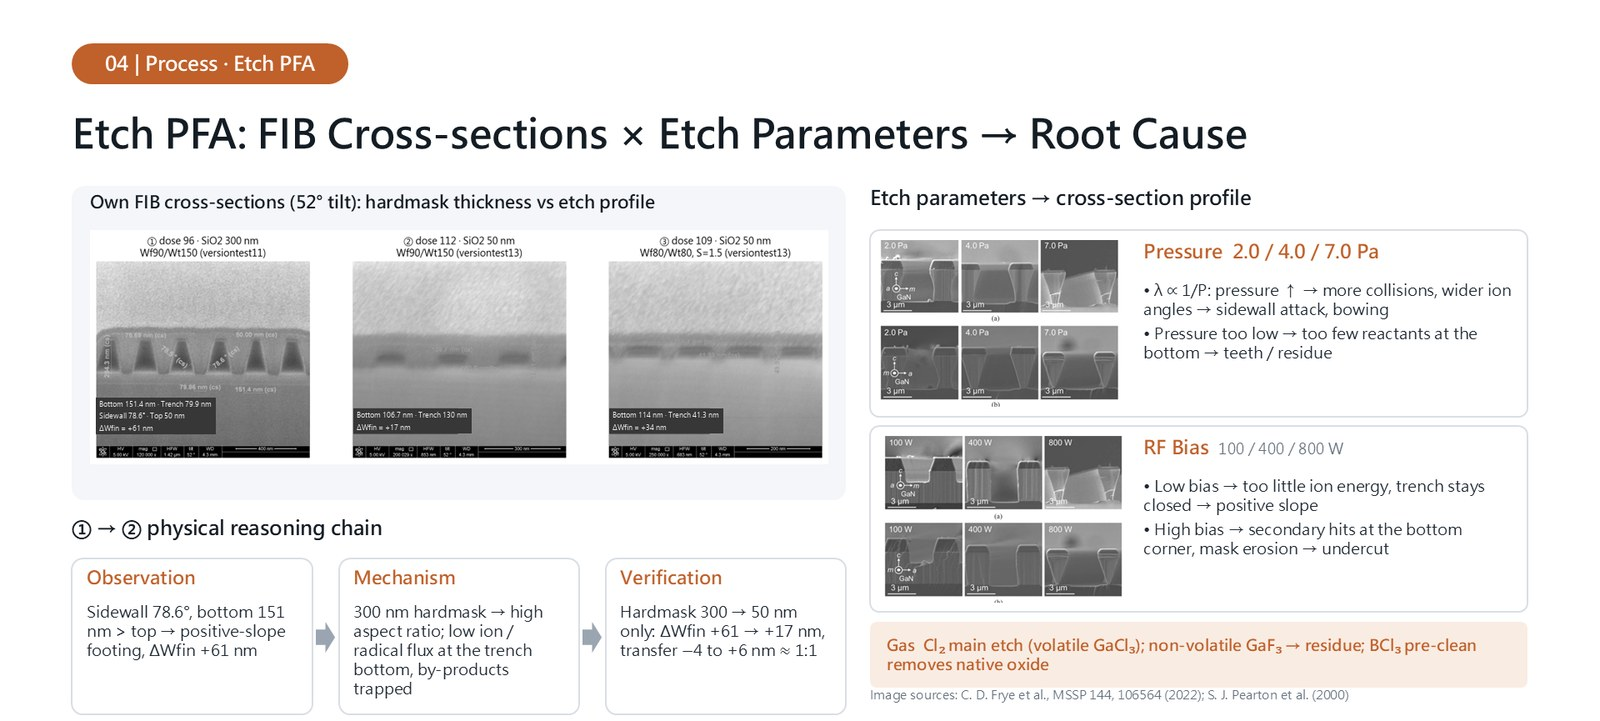
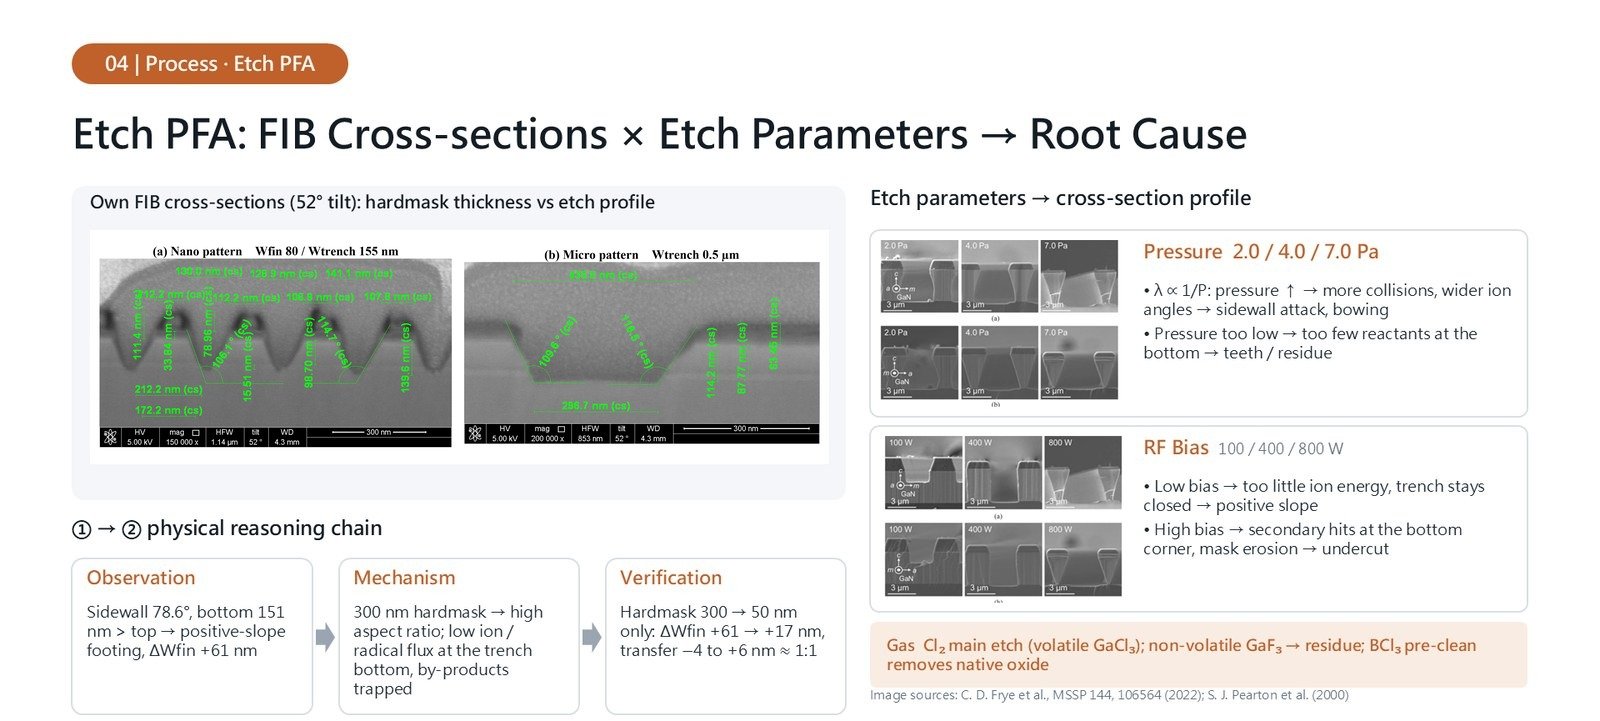
Update the etch FIB figure and the IWN poster
Swap the left panel of the Etch PFA slide for the Recipe #20 FIB
cross-sections (nano vs micro patterns) with English titles, and
replace the IWN 2026 poster with the final version.

Changed region(s): [[0.0625, 0.3051, 0.5312, 0.6408]]

diff --git a/index.html b/index.html
@@ -252,8 +252,8 @@
           </article>
 
           <article class="deck-step" data-topic="etch" data-highlight-id="deck-etch">
-            <a class="deck-slide" href="assets/slides/deck/gan-etch-pfa.jpg?v=en1" target="_blank" rel="noopener">
-              <img src="assets/slides/deck/gan-etch-pfa.jpg?v=en1" width="1600" height="721" alt="Etch PFA: FIB cross-sections and etch parameters trace morphology back to root cause" loading="lazy" decoding="async" />
+            <a class="deck-slide" href="assets/slides/deck/gan-etch-pfa.jpg?v=en2" target="_blank" rel="noopener">
+              <img src="assets/slides/deck/gan-etch-pfa.jpg?v=en2" width="1600" height="721" alt="Etch PFA: FIB cross-sections and etch parameters trace morphology back to root cause" loading="lazy" decoding="async" />
             </a>
             <div class="deck-copy">
               <p class="tag">Process · Etch PFA</p>
@@ -465,8 +465,8 @@
 
         <div class="publication-list">
           <article class="publication-card" id="pub-iwn">
-            <a class="publication-poster" href="assets/publications/iwn2026-poster.jpg" target="_blank" rel="noopener">
-              <img src="assets/publications/iwn2026-poster.jpg" alt="IWN 2026 poster: Fast Regression in the Vth-Ron Tradeoff of Enhancement-Mode GaN FinFETs Using AI-Driven TCAD" loading="lazy" decoding="async" />
+            <a class="publication-poster" href="assets/publications/iwn2026-poster.jpg?v=2" target="_blank" rel="noopener">
+              <img src="assets/publications/iwn2026-poster.jpg?v=2" alt="IWN 2026 poster: Fast Regression in the Vth-Ron Tradeoff of Enhancement-Mode GaN FinFETs Using AI-Driven TCAD" loading="lazy" decoding="async" />
               <span data-i18n="pub.viewPoster">查看海報</span>
             </a>
             <div class="publication-body">
